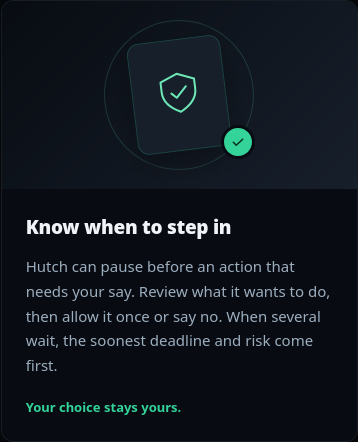
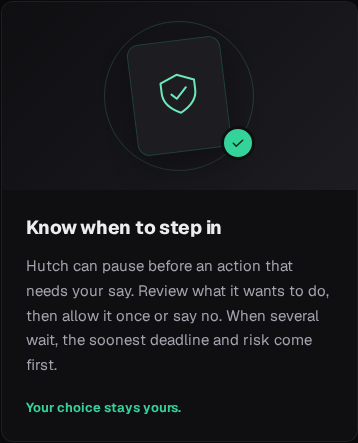
Record Studio redesign validation and before/after evidence

diff --git a/docs/realignment/studio-redesign-validation-2026-10-26.md b/docs/realignment/studio-redesign-validation-2026-10-26.md
@@ -1,0 +1,119 @@
+# Studio redesign: validation record (2026-10-26)
+
+Scope: the dashboard redesign requested on 2026-10-26 (tool-calling and approval UI, header, colors and WCAG, chat
+bubbles, marketing site, first-run intro and fit, model picker and dialog, sidebar). Work lives on branch
+`ui/studio-redesign`, based on `main` at `b8bb7310`. Nothing is committed or pushed. Design rules are in `DESIGN.md`;
+the change summary is the first `CHANGELOG.md` entries under Unreleased.
+
+Screenshots referenced below are in `docs/realignment/artifacts/studio-redesign-2026-10-26/` (`before/` and `after/`).
+All were opened and inspected; a screenshot existing is not treated as validation.
+
+## What was built
+
+| Area | Result |
+| --- | --- |
+| Thread and steps | A turn is avatar, spine, step cards, answer. Each tool call is a step with a plain-language title, subject, state word, exit code, measured duration, exact request and full output with Copy, and raw JSON on request. "Worked for" subtracts recorded approval waits. |
+| Gates (approvals) | Permission requests show the exact content up front (file preview, `$ command` well, risk, scope, countdown). Decisions are unchanged: Allow once, Always allow for this bot, Deny; no single-key approve. A pending gate is brought into view when a conversation or task opens. |
+| Answers and bubbles | Safe Markdown (escape-first, http/https/mailto only, no remote images, copyable code). Long requests clamp and expand; expanded state, output "Show more" and Raw/Formatted survive live updates. |
+| Header | One row. The status chip, waiting/queued counts and needs-you pill are gone (each fact has one home). The coordinator chip stacks under the name on a phone. |
+| Colors and type | Bundled Geist and Geist Mono; neutral graphite palette; every text token at least 5:1; 3:1 control edge for fields (WCAG 1.4.11); no side-stripe borders. |
+| First-run intro | Left-aligned hero, request card, and a rail (AI service, how Hutch works). Laid out by pane width (container query); the setup action stays on screen at 320, 375, 390, 1280x720 and landscape phone. |
+| Sidebar | Round Search (opens the command palette) and New actions, quiet navigation rows, a home card for the coordinator, 40px avatars with one-line status, soft selection with a brand marker, two pill links at the foot, a docked icon rail, and a phone sheet. |
+| Model picker | Pill trigger; menu grouped by where each model runs ("On this machine", "Hosted - leaves this machine") with icon tiles; "Choose a model" dialog with card rows and the selection control at the far edge. Roles, classes and wording are unchanged. |
+| Command palette | Ctrl or Cmd + K: assistants, recent chats, pages, actions; ARIA combobox, native modal dialog. |
+| Marketing site | Geist, the shared graphite tokens, and first-run captures regenerated from the real empty app with the repo's own capture script (it refuses to run against a populated app). |
+
+## Method and results
+
+All numbers are from this branch's code, Chromium 153 (Playwright 1.63), on an isolated state directory. Fixture runs are
+synthetic and are written straight to the store; no model or provider is contacted. The model-picker screenshots and axe
+runs use a mocked model catalog (the real catalog needs live connections); the picker's logic is covered by the existing
+e2e suite against real fixtures.
+
+| Check | Scope | Result |
+| --- | --- | --- |
+| axe-core 4.14 (WCAG 2.0 to 2.2 A/AA plus best-practice rules) | 21 routes and fixtures at 1440 and 390 | 0 violations |
+| axe-core, interactive states | model menu, model dialog, phone sidebar sheet, gate with details open, Needs-you drawer, at 1440 and 390 | 0 violations (after the three fixes below) |
+| axe-core, first run, welcome, palette, marketing site | desktop and phone | 0 violations |
+| Pixel-sampled contrast (foreground against the rendered background behind each text node) | 857 desktop and 382 phone text samples across fixtures and pages; 46 first-run and 34 welcome samples | 0 failures |
+| Pixel-sampled contrast, overlays | 536 samples across menus, dialog, sheet, drawer | 0 real failures; 2 readings are the sidebar badge behind a modal's dark backdrop (the same badge passes on every page without a backdrop) |
+| Token contrast pairs | all text tokens on ground, panel and raised surfaces | at least 5.0:1 (text-3 reads 4.3:1 on the raised tag surface, so gate and model tags use text-2) |
+| Fit audit (document overflow, content past the viewport or cut by hidden overflow, controls clipped without an ellipsis, unintended sideways scrolling) | 21 routes at 320, 390, 768, 1024, 1440, 844x390 landscape, 390 at 200% text, 320 at 200% text; plus first run and welcome | 0 findings after fixes. The audit was self-tested: it flags an injected 700px element and a clipped button. The one intended case it reports is the landscape first-run label that is visually hidden but kept for screen readers. |
+| Keyboard focus | 241 Tab stops across 5 chat fixtures; 25 sidebar stops (desktop) and 30 (phone sheet) | every stop shows a ring; the composer shows focus on its container (border and halo) |
+| Reduced motion and forced colors | chat fixtures | no running animation under reduced motion; forced-colors rendering inspected |
+| Large transcript | 100 rendered steps (150 recorded; the server serves the latest 200 events) | full feed re-render 258 ms; opening the step list 65 ms; expanding one step 31 ms |
+
+## Defects found by validation, and fixed
+
+1. **A stale-approval click raced the page.** On the task page the thread slid in as it loaded and the gate sat below the fold, so the click outlasted the window before the card refreshed. Threads that are already present no longer animate, and a pending gate is scrolled into view. The test now passes 6 of 6 runs (it failed 2 to 4 of 4 before).
+2. **The marketing site downloaded its font twice.** The preload URL carried a content hash but the `@font-face` URL did not. They match again.
+3. **Roster:** the options button was hidden until hover, and the larger avatars truncated ordinary names. The button is always visible (low emphasis, in its own 28px column) and names are budgeted to stay whole at 272px.
+4. **Fit:** approval gates overflowed at 200% text; the Runs filter pills were cut off; chat-library rows and KPI tiles clipped at 320px; the gate header collided at phone width; a 320px Needs-you card was too tall.
+5. **Side-stripe borders** on the reply quote and Markdown blockquotes were replaced with boxed styles (project rule).
+6. **Contrast:** gate tags (4.34:1) and the "leaves this machine" tag (4.43:1) now use text-2.
+7. **Accessibility:** dialog titles were h3 under an h1 (now h2, with h3 group headings); Needs-you filter buttons did not contain their visible text in their accessible names; the coordinator chip put `aria-label` on a plain span.
+8. **Typography regression:** I had lowered the section and reading sizes by one step. Restored to 18px and 17px (the design-system contract).
+9. **Touch targets:** the "Make a bot" action and compact header actions are 44px on touch.
+10. **Expanded state** (long request, step output "Show more", Raw/Formatted) used to snap shut on any live update; it is now remembered, with a regression test that fails without the fix.
+
+## Tests changed, and why
+
+Updated because the design they encoded was replaced on purpose:
+
+| Test | Change |
+| --- | --- |
+| `test_delegated_wait_status_is_responsive_and_reviewable` | The header no longer repeats waiting and queued counts; it asserts the header is quiet and the wait is stated once on the task. |
+| `test_workflow_pill_meets_target_minimum` (now `test_reminder_review_action_meets_target_minimum`) | The needs-you pill is gone; the reminder's Review action keeps the 24px target and the header must not repeat the count. |
+| `test_untrusted_run_content_is_text_not_executable_html` | Answers are Markdown, so a paragraph wrapper is expected; nothing the payload says may become an element. |
+| `test_queued_chat_keeps_earlier_approval_and_live_status_fresh` | Scoped "Done" to the turn header (each step also carries a visually hidden state word). |
+| `test_shared_design_tokens_render_consistently_across_all_surfaces` | Pinned values moved to the new graphite tokens. |
+| `test_popup_edges_and_surfaces_match_design_tokens` | Form fields use the 3:1 edge token; menus keep the strong border token. |
+| `test_open_phone_sheet_reaches_every_destination_and_wraps` | Needs you is the sixth Tab stop (Search and New now precede the navigation), not the fourth. |
+| `test_every_workspace_route_renders_independently_at_responsive_sizes` | The long fixture name is longer (Geist is narrower, so the old name no longer needed an ellipsis); the phone "New" button must be a labelled button wider than the 44px icon form. |
+| `test_approval_triage_marketing_evidence_is_complete` | Evidence regenerated from the current site with the producer test (see below). It already failed on `main` at `b8bb7310` because that commit changed `index.html` after the evidence was captured. |
+
+Hardened (same assertions, retrying wait instead of an instant check on a popup that opens asynchronously):
+`test_inline_chat_approval_is_one_click_and_preserves_conversation`,
+`test_chat_header_uses_available_title_space_and_groups_assistant_settings` and
+`test_fleet_appears_at_ten_bots_with_search_and_state_filters`.
+
+Added: `tests/e2e/test_studio_transcript.py` (Markdown inertness and Copy, step cards, gate content and decisions, long-request clamp and labels, header facts once, persistence across live updates), `tests/e2e/test_studio_palette.py`, `tests/test_studio_markdown.py` with `tests/support/markdown_check.mjs` (36 checks, mutation-verified), and updated `tests/test_studio_shell.py` and `tests/test_site_tokens.py`.
+
+## Failures not caused by this work
+
+- `tests/e2e/test_experience_surfaces.py::test_typed_output_widgets_fit_the_run_transcript_at_responsive_sizes` fails the same way at the base commit (the element-screenshot wait never sees the card as visible).
+- Six backend tests fail identically on a clean checkout of `main` at `b8bb7310` (checked in a temporary worktree): `test_runtime_builtin.py` (2), `test_toolcalling_validation.py` (2), `test_workflow_csv_acceptance.py` (1), `test_workflow_engine.py` (1).
+
+## Not tested, or limited
+
+- No screen reader (NVDA, VoiceOver, TalkBack) was run; accessibility claims rest on axe, the accessibility tree, keyboard walks and the measurements above.
+- Chromium only; Firefox and WebKit were not run. The customizable select (`appearance: base-select`) degrades to the native picker elsewhere by design.
+- No physical phone or tablet; narrow sizes use emulation and 200% text size, which is stricter on text and looser on pixel scaling than 400% browser zoom.
+- No user research or independent design review. The scores below are my own judgment from the evidence.
+- The model picker was exercised with a mocked catalog for screenshots and audits; live provider catalogs were not contacted.
+- The other agent's work is in flight on the same surfaces (ADR 0021 and P13 in `desktop-production-2026-10-26.md`: a "Chat with Hutch" and Tasks daily path). This branch keeps every route, id and role and restyles around them, but the two will need reconciling.
+
+## Self-assessment against the PRODUCT.md gates
+
+| Gate | Score | Basis |
+| --- | --- | --- |
+| Aesthetic (at least 90) | about 90 | One shape language across thread, gates, bubbles, sidebar, picker and intro; checked in opened screenshots at 320, 375, 390, 768, 1024, 1280x720, 1440 and landscape phone. At the gate, not above it: no external review, and the sidebar still carries a list of destinations that the Muse reference does not. |
+| Functionality (at least 95) | about 95 | Existing behavior and every role, id and decision semantic are preserved; the e2e suite exercises them; the validation above found and fixed ten defects. At the gate, not above it: the pre-existing failures listed above (one e2e, six backend) remain open, and the environments listed under "Not tested" were not covered. |
+
+Both are unreviewed estimates, and the overall score is the lower of the two. Whether this matches the quality of the Grok and Muse references is your call; the screenshots are the thing to compare.
+
+## Final suite results
+
+Both runs were on the final tree (after the last code, test and doc edits), with temp, basetemp and artifact paths on the
+disk volume. The Chromium revision is the one the locked Playwright expects.
+
+| Suite | Command | Result |
+| --- | --- | --- |
+| Browser | `pytest -q tests/e2e` | 394 passed, 1 skipped, 1 failed (23 min). The failure is `test_typed_output_widgets_fit_the_run_transcript_at_responsive_sizes`, which fails the same way at the base commit. |
+| Everything else | `pytest -q --ignore=tests/e2e` | 3384 passed, 15 skipped, 6 xfailed, 6 failed (19 min). The six failures are the backend tests listed above, which also fail on a clean checkout of `main` at `b8bb7310`. |
+
+For comparison, the first full browser run after the redesign had 24 failures and 1 teardown error; triage of those produced
+the fixes and test updates above. The baseline (before any change) had 5 browser failures: the typed-output test above;
+two popup-visibility races, which the hardened tests now cover; and two others (a generated-file download test and a
+computer-use login test) that pass on the final tree. I did not investigate why those two failed at the baseline, so I
+cannot say whether they were load-dependent.
